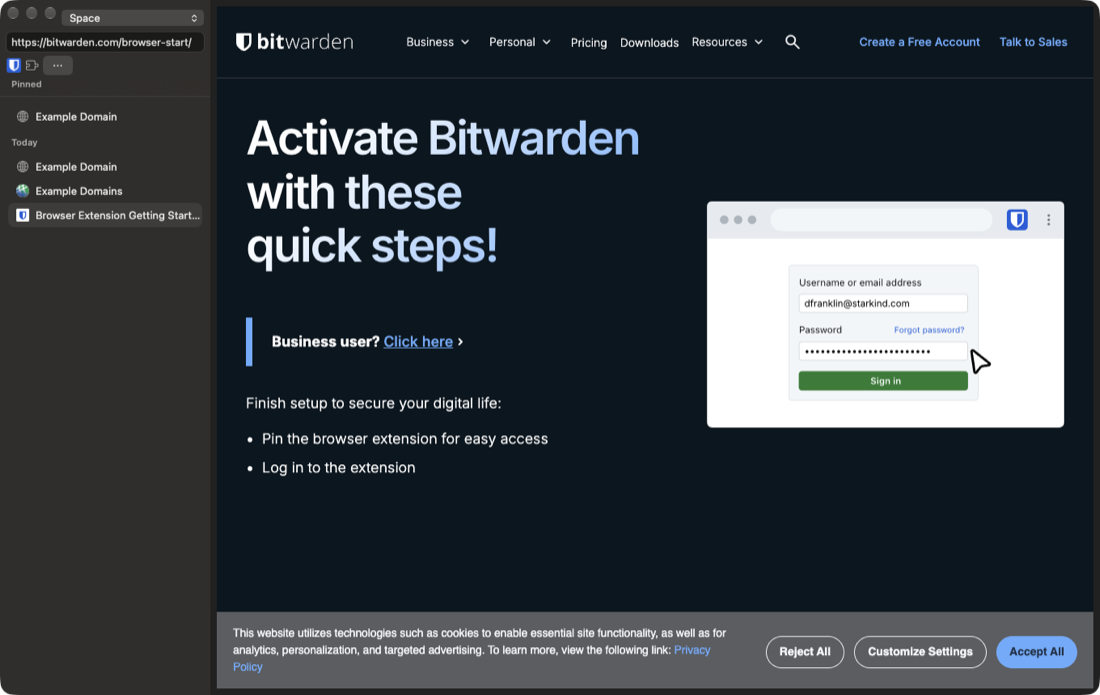
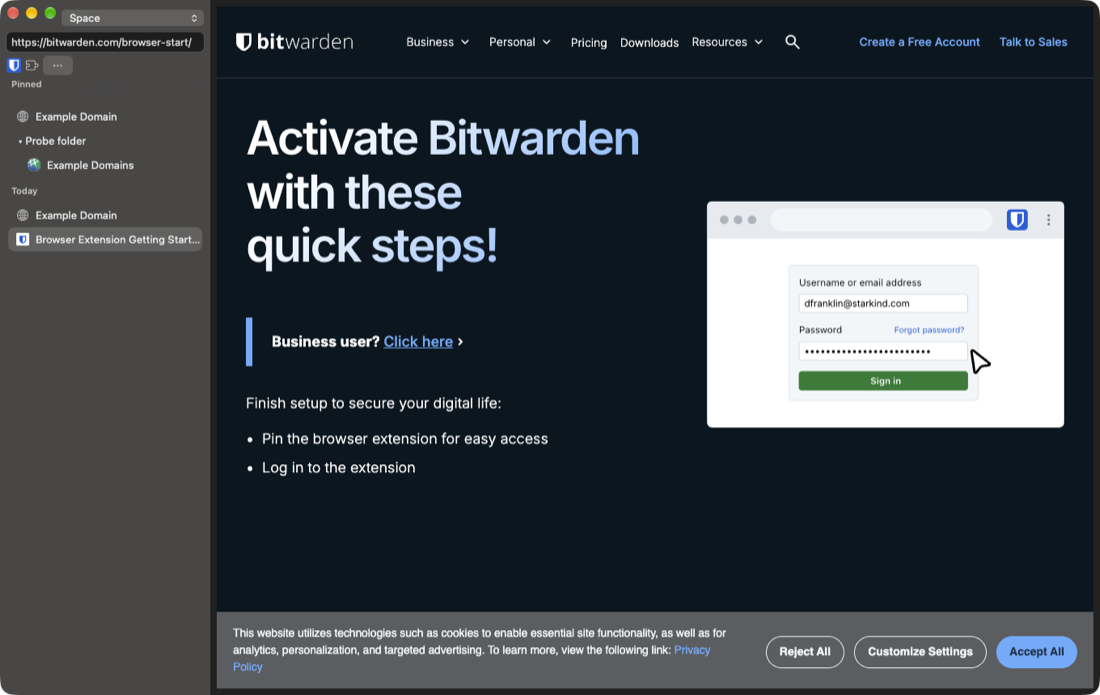
P1: folders are not tab groups (follow Arc)
Arc's ArcCore asks Swift for every chrome.tabGroups operation and shows
no folder-to-group mapping; its own tab groups are the Today-section
groups from organizing tabs (docs/re/arccore-engine.md §4.3.1).

Open v1 therefore has no tab groups. Hidden tab-strip Browsers get no
tab group model (chromium patch 0303), the same way Chrome treats app
windows, so chrome.tabs.group fails with Chrome's own "Grouping is not
supported by tabs in this window." and folder tabs keep pinned: true and
groupId -1. The tabstrip e2e suite checks this (no_tab_groups) with a new
automation "folder" command.

Changed region(s): [[0.0, 0.0, 0.2164, 1.0]]

diff --git a/App/Automation/AutomationController.swift b/App/Automation/AutomationController.swift
@@ -121,6 +121,15 @@
       case "split":
         w.addSplitView(nil)
         return w.visibleTabs.map { describe($0, in: w) }
+      case "folder":
+        // A pinned folder in the focused Space holding the given tabs.
+        guard let space = w.focusedSpace else { throw Failure(message: "no space") }
+        let ids = try (a["tabs"] as? [String] ?? []).map { try modelTab(["tab": $0], w).id }
+        guard
+          let folder = app.model.createFolder(
+            in: .spacePinned(space.id), title: a["title"] as? String ?? "Folder", withNodes: ids)
+        else { throw Failure(message: "folder not created") }
+        return folder.id.description
       case "navigate":
         try content(a, w).load(try url(a, "url"))
         return true

diff --git a/tools/e2e/engine_e2e.py b/tools/e2e/engine_e2e.py
@@ -787,6 +787,25 @@ def tabstrip_checks(app, results):
                       timeout=10)
     results["tabs_remove"] = {"ok": bool(gone)}
 
+    # Folders are not tab groups (lead decision; Arc does not map them either,
+    # docs/re/arccore-engine.md §4.3): a folder's tabs stay pinned with no
+    # group, and grouping fails with Chrome's own error.
+    folder = app.call("folder", tabs=[b], title="Probe folder")
+    def in_folder():
+        rows = {t["id"]: p for t, p in live()}
+        return rows.get(b) if b in rows else None
+    wait_until(in_folder, timeout=10)
+    time.sleep(1)
+    flags = ext_eval(pop, "chrome.tabs.query({currentWindow: true}).then(ts => ts.map(t => ({id: t.id,"
+                          " pinned: t.pinned, groupId: t.groupId})))")
+    grouped = ext_eval(pop, "chrome.tabs.group({tabIds: [%d]}).then(g => 'grouped ' + g, e => e.message)" % b_id)
+    groups = ext_eval(pop, "chrome.tabGroups.query({}).then(gs => gs.length, e => e.message)")
+    b_flags = [f for f in flags if f["id"] == b_id]
+    results["no_tab_groups"] = {
+        "ok": bool(b_flags) and b_flags[0]["pinned"] and all(f["groupId"] == -1 for f in flags)
+              and "support" in str(grouped) and groups == 0,
+        "folder": folder, "folder_tab": b_flags, "group_call": grouped, "tab_groups": groups}
+
     ev = events(pop)
     results["events_seen"] = sorted({e["type"] for e in ev})
     app.call("popup-close")

diff --git a/Engine/fork/src/open/browser/tab_strip/hidden_browser.h b/Engine/fork/src/open/browser/tab_strip/hidden_browser.h
@@ -5,6 +5,8 @@
 #ifndef OPEN_BROWSER_TAB_STRIP_HIDDEN_BROWSER_H_
 #define OPEN_BROWSER_TAB_STRIP_HIDDEN_BROWSER_H_
 
+#include "cef/libcef/browser/chrome/browser_delegate.h"
+
 class BrowserWindowInterface;
 
 namespace open_engine {
@@ -14,6 +16,14 @@ namespace open_engine {
 // that treats "no Views UI" as "unit test" (CHECK_IS_TEST) checks this first
 // (Engine/fork/patches/chromium/0302-open-hidden-browser-ui.patch).
 bool IsHiddenTabStripBrowser(const BrowserWindowInterface* browser);
+
+// False for the CEF params of a hidden tab-strip Browser: Open does not map
+// its folders to tab groups (Arc does not either; docs/re/arccore-engine.md
+// §4.3), so the Browser gets no tab group model and chrome.tabs.group fails
+// with Chrome's "does not support tab groups" error instead of making groups
+// the sidebar cannot show. Called from the Browser constructor
+// (Engine/fork/patches/chromium/0303-open-hidden-browser-no-tab-groups.patch).
+bool SupportsTabGroups(const cef::BrowserDelegate::CreateParams* cef_params);
 
 }  // namespace open_engine
 

diff --git a/Engine/fork/src/open/browser/tab_strip/open_tab_strip.cc b/Engine/fork/src/open/browser/tab_strip/open_tab_strip.cc
@@ -517,6 +517,14 @@ bool IsHiddenTabStripBrowser(const BrowserWindowInterface* browser) {
   return OpenTabStrip::FromBrowser(browser) != nullptr;
 }
 
+bool SupportsTabGroups(const cef::BrowserDelegate::CreateParams* cef_params) {
+  // CEF passes only ChromeBrowserHostImpl::DelegateCreateParams here.
+  return !cef_params ||
+         !static_cast<const ChromeBrowserHostImpl::DelegateCreateParams*>(
+              cef_params)
+              ->create_params_.open_tab_strip_id;
+}
+
 }  // namespace open_engine
 
 // static

diff --git a/docs/re/arccore-engine.md b/docs/re/arccore-engine.md
@@ -179,8 +179,22 @@ Arc does not use Chrome windows/tab strips as UI, yet `chrome.tabs` must work. T
 - [ ] Consent UI callbacks for install, uninstall, and host/permission prompts, answered asynchronously via completions.
 - [ ] A tab-model mirror: every Arc/Open tab (pinned, today, split-view member, Little Arc, Peek) needs a stable engine tab identity exposed to `chrome.tabs` (id, windowId, index, active, pinned, groupId, url/title/favicon/status, audible/muted), with create/remove/update/move/activate events. Split View is the hard case: two WebContents, one visual tab — Arc's `tabs_api.mojom.TabStripService.ReplaceTabInSplit` string suggests upstream Chromium 156 already models splits; Open must decide the mapping and document it.
 - [ ] A window-model mirror: `chrome.windows` ↔ Open windows (main, Little Arc, popup browsers via `createPopupBrowser:withDelegate:`), with focus/ bounds events.
-- [ ] Tab-group bridge both ways (extension-created groups must appear in the sidebar; sidebar groups must be visible to extensions).
+- [ ] Tab-group bridge both ways (extension-created groups must appear in the sidebar; sidebar groups must be visible to extensions). Open v1: no groups (§4.3.1).
 - [ ] Omnibox keywords (`triggerExtensionOmniboxInput`), extension commands (global shortcuts), context menus (`showExtensionContextMenu:` + `ArcMenuModel`), side-panel hosting, devtools for extension pages (background/service-worker inspection via `ArcBrowserContextDevTools`), and error surfacing (`ArcExtensionRuntimeError`).
+
+#### 4.3.1 Tab groups vs folders (2026-10-25)
+
+Question (lead): does Arc's hidden tab-strip mirror turn sidebar folders into Chromium tab groups, and how does it report pinned tabs inside folders? Answer: **no evidence that Arc maps folders to tab groups.** Arc answers `chrome.tabs.group` and `chrome.tabGroups` from Swift through a delegate bridge, and its own "tab groups" are a separate Today-section feature. Evidence (raw output in `.re/tabgroups/`):
+
+1. ArcCore asks Swift for every group operation; it does not read groups from its `TabStripModel`. Selectors in ArcCore (`strings`): `browser:createTabGroupWithSessionIds:properties:completion:`, `browser:getTabGroupWithId:completion:`, `browser:getAllTabGroupsWithCompletion:`, `browser:updateTabGroupWithId:properties:completion:`, `browser:moveTabGroupWithId:toNewIndex:completion:`, `browser:extensionGroupIdForTabWithSessionId:`; C++ names `BrowserDelegate::CreateTabGroup`, `::GetAllTabGroups`, `::UpdateTabGroup`, `::MoveTabGroup`, `::GetExtensionGroupIdForTab`; properties `TabGroupProperties {title, color (arc::bindings::TabGroupColor), collapsed}`.
+2. In the Arc binary these land on ADK's `_TtC3ADK15ChromiumBrowser` methods (shared Ghidra project, `FuncByName.java`: `browser:createTabGroupWithSessionIds:properties:completion:` @ `10052bd9c` … `browser:extensionGroupIdForTabWithSessionId:` @ `10052d170`). Decompiled, each forwards to a weak Swift `browserDelegate` protocol (witness slots `0x70` = get all groups, `0x78` = group id lookup) and returns `-1` (no group) when there is no delegate.
+3. That delegate is `ADK.ADKBrowserDelegate` (`_TtC3ADK18ADKBrowserDelegate`), a closure/action adapter whose fields include `onCreateTabGroup`, `onAddTabsToGroup`, `onRemoveTabsFromGroup`, `onUpdateTabGroup`, `onMoveTabGroup`, `onGetTabGroup`, `onGetAllTabGroups` and the stored closure `extensionGroupIdLookup` (ivar symbol; reader `FUN_1004ed7f4` returns `-1` when the closure is nil; its setter `FUN_1004ecc5c` is reached only through Swift dynamic dispatch, so the app-side handler is not statically traceable). Reply types: `ExtensionTabGroupInfo` (`groupID`, `extensionGroupID`, `title`, `color`, `collapsed`, `tabSessionIDs`), `ExtensionTabGroupResult`.
+4. Arc's own "tab groups" are Today-section groups with a header, made by "organize tabs": `SharedWindowFeature/WindowData+TabGroups.swift` with `createUnpinnedTabGroups()` (referenced from `FUN_1029f9b18`, `FUN_1029fbb48`, `AdrpDecomp.java`), "Tab group of miscellaneous tabs", "No tab groups found" / "Tells user that although they attempted to organize their tabs, no tab groups were found", `Arc.TabGroupHeaderCellView` ("Tooltip for the button to close a group of tabs in the sidebar"), "Tab Group Context Menu", "Remove tab group header", `TabGroupingWithAIError`. Folders are separate UI with their own strings: "New Folder", "New Folder from Selection", "Close This Folder", "Tooltip for the button to archive a folder", "Turn into Folder".
+5. Chromium's session files in the user's Arc profile (`User Data/Default/Sessions/Session_*`, read-only, command ids only) hold window commands only (`SetWindowType`, `SetWindowUserTitle`, `SetWindowWorkspace2`, `AddWindowExtraData`, …): no `SetTabWindow`, no `SetPinnedState`, no `SetTabGroup`/`SetTabGroupMetadata2`. Guess: Arc keeps tabs out of Chromium's session service and restores from its own JSON, so the session layer says nothing about groups either way.
+
+Guess (not proven, see 3): the bridge serves the Today tab groups of point 4, which come from Arc Max's tab organizing. Arc Max is out of v1 scope.
+
+Decision for Open v1 (lead rule: copy Arc if it groups folders, else no mapping): folders are not tab groups. Folder tabs keep their pinned state in `chrome.tabs` (`groupId` -1), and Open's hidden windows have no tab-group model, so `chrome.tabs.group` fails with Chrome's own "Grouping is not supported by tabs in this window." and `chrome.tabGroups.query` returns nothing (docs/engine-patches.md, P1).
 
 ### 4.4 CEF gap
 

diff --git a/docs/engine-patches.md b/docs/engine-patches.md
@@ -81,7 +81,7 @@ As built, close to the plan above. Differences are marked "deviation".
 | `OpenHostedPlatformDelegate` | overlay `open_hosted_platform_delegate.{h,mm}` | Chrome style platform delegate whose window handle is the `WebContents` view; the shell parents it. `WasHidden` drives `UpdateWebContentsVisibility`. |
 | CEF API | overlay `cef/include/cef_tab_strip.h`; C API and wrappers are generated by `cef/tools/version_manager.py` (CEF keeps them untracked) | `CefTabStrip`: `Create`, `GetWindowId`, `SetHostView`, `CreateTab`, `UpdateTab`, `ActivateTab`, `GetTabId`, `GetTabCount`, `GetTabAt`, `GetActiveIndex`, `GetExtensionActionBadgeText/BadgeColor/Title`, `IsExtensionActionEnabled`, `Close`. `CefTabStripHandler`: `OnBeforeTabCreated` (client for a tab Chromium creates), `OnTabCreated`, `OnTabActivateRequested`, `OnTabMoveRequested`, `OnTabPinRequested`, `OnExtensionActionUpdated`. |
 | CEF hooks | `patches/cef/0302-open-hosted-tabs.patch` (+79/−6) | `CefBrowserCreateParams::open_tab_strip_id`; platform delegate selection; per-tab client in `ChromeBrowserDelegate::SetAsDelegate`; popups of hosted tabs join the opener's strip (`CanCreateWindow`, `ChromeBrowserHostImpl::AddNewContents`); no `SelectNumberedTab` on focus for hosted tabs; `WasHidden` for hosted tabs; `BUILD.gn` adds `//open/open_libcef_sources.gni`. |
-| Chromium hooks | `patches/chromium/0301-open-headless-browser-window.patch` (+6/−4), `0302-open-hidden-browser-ui.patch` (+8/−2) | Two `CHECK(browser_view)` that CEF's own patch adds in `browser_window_features.cc` (reached by every new tab); a `CHECK_IS_TEST()` in Read Anything for windows without a side panel; no `SadTabHelper` (a Views sad tab) in hidden Browsers. `open_engine::IsHiddenTabStripBrowser()` (`hidden_browser.h`) is the predicate. |
+| Chromium hooks | `patches/chromium/0301-open-headless-browser-window.patch` (+6/−4), `0302-open-hidden-browser-ui.patch` (+8/−2), `0303-open-hidden-browser-no-tab-groups.patch` (+11/−2) | Two `CHECK(browser_view)` that CEF's own patch adds in `browser_window_features.cc` (reached by every new tab); a `CHECK_IS_TEST()` in Read Anything for windows without a side panel; no `SadTabHelper` (a Views sad tab) in hidden Browsers. `open_engine::IsHiddenTabStripBrowser()` (`hidden_browser.h`) is the predicate. Hidden Browsers get no tab group model (`open_engine::SupportsTabGroups()`), as Chrome does for app windows. |
 
 Deviations from the plan:
 
@@ -98,7 +98,6 @@ Cost (`--only measure --style chrome`, `results-measure-release-p1.json`, load a
 
 Not done in this step:
 
-- Folders → `chrome.tabGroups` (lead decision 3) needs one more decision: Chrome cannot group pinned tabs (`TabListInterface::AddTabsToGroup` unpins them), and Arc's folders live in the pinned section. Proposed: report tabs inside folders as unpinned, grouped tabs.
 - `chrome.windows.create` still makes a Chrome Views window (`OEDefaultClient` reloads its URL into an Open tab, losing identity).
 - Moving a hosted tab to another window or profile: the page stays a tab of its first window.
 
@@ -179,6 +178,6 @@ Planned in full in [plans/adblock-fork.md](plans/adblock-fork.md) (adblock-rust 
 
 1. Patch order P1 → P2 → P3 approved. Owner of P1: the engine lead (Opus), working alone in the shared Chromium tree; other engine patch series (ad block, tab sleeping) queue behind it in the same tree.
 2. `chrome.windows`: one Chrome window per Open window. Its tab strip holds every LIVE tab of that window across all Spaces (placeholders and sleeping tabs are absent until loaded); the focused tab is the active tab. Space switches do not churn the strip.
-3. Folders map to `chrome.tabGroups` (title = folder name, collapsed = folder collapsed) after core P1 works. Splits are not tab groups.
+3. ~~Folders map to `chrome.tabGroups` (title = folder name, collapsed = folder collapsed) after core P1 works.~~ Superseded (lead, 2026-10-25): follow Arc. Arc does not map folders to tab groups (docs/re/arccore-engine.md §4.3.1), so v1 has no tab groups: folder tabs keep their pinned state in `chrome.tabs` (`groupId` -1), and Open's hidden windows have no tab group model, so `chrome.tabs.group` fails with Chrome's own error and `chrome.tabGroups.query` is empty (patch `0303`, e2e `--only tabstrip` → `no_tab_groups`). Splits are not tab groups.
 4. Default profile engine data stays at `Profiles/Default/` (CEF's fixed default slot); other profiles use `Profiles/<dir>/Engine/`. docs/plans/profiles.md §5 is amended by this decision.
 5. Until P1 lands: extensions run in our own views; the Chrome-style window remains available (debug/advanced menu) for the Web Store and `chrome://extensions`.

diff --git a/docs/followups.md b/docs/followups.md
@@ -14,7 +14,6 @@ Small items found during review and verification. Each line: area — issue — 
 - Engine / shell — hosted (Chrome style) tabs bring Chrome's own context-menu items (Cast…, Open in Reading Mode, Create QR Code…) into `OEContextMenu`. Filter them in the shell or drop them in the engine (P5 trim). — engine lead, 2026-10-25
 - Engine P3 — the Web Store install prompt from a hosted tab is Chrome's Views dialog as a free-standing window (the install completes). P3 sends it to the shell. — engine lead, 2026-10-25
 - Engine P1 follow-up — `chrome.windows.create` still opens a Chrome Views window (`OEDefaultClient` reloads its URL into an Open tab, losing identity); sized `window.open` popups are tabs of the opener's window in `chrome.tabs`. Map extension popup windows to Open panels with their own hidden window. — engine lead, 2026-10-25
-- Lead decision — folders → `chrome.tabGroups`: Chrome cannot group pinned tabs, and Arc's folders live in the pinned section. Proposed: tabs inside folders are unpinned, grouped tabs in `chrome.tabs`. — engine lead, 2026-10-25
 - Engine P1 follow-up — a hosted page stays a tab of its first window; moving a tab to another window or profile needs `CefTabStrip` support (detach/attach between hidden Browsers). — engine lead, 2026-10-25
 - Shell — draw `OEExtensionAction.badgeText`/`badgeBackgroundColor` on toolbar buttons (live since P1). — engine lead, 2026-10-25
 - Engine (profiles) — CEF logs "Cannot create profile at path …/Profiles/Profile-<id>/Engine" when a non-default profile opens: every request-context cache_path must be a child of `root_cache_path`. Set `root_cache_path` = `<data root>/Profiles`, global `cache_path` = `Profiles/Default` (lead decision 4), other profiles `Profiles/<dir>/Engine`; verify cookie persistence across relaunch for a second profile. Owner: engine lead. — app-shell Step B report, 2026-10-25. Root cause (engine lead, 2026-10-25): with the Chrome bootstrap, CEF loads a disk profile only if its folder is a direct child of `root_cache_path` (`cef/libcef/browser/chrome/chrome_browser_context.cc`, `InitializeAsync`: `cache_path_.DirName() == user_data_dir`); `Profiles/<dir>/Engine` is a grandchild, so each non-default profile silently becomes an in-memory (off-the-record) profile and nothing persists. Fix: use `Profiles/<dir>/` itself as the engine folder (as the default profile already does, with `State/` beside Chrome's files), or patch CEF to accept deeper paths. Needs a data-layout decision (docs/plans/profiles.md §5).

diff --git a/docs/engine-fork.md b/docs/engine-fork.md
@@ -274,6 +274,7 @@ The app now builds against the fork by default (`tools/fetch-cef.sh`,
 |---|---|---|---|
 | chromium | `0301-open-headless-browser-window.patch` | +6/−4 | `chrome/browser/ui/browser_window/internal/browser_window_features.cc` |
 | chromium | `0302-open-hidden-browser-ui.patch` | +8/−2 | `read_anything_side_panel_controller.cc`, `tabs/tab_features.cc` |
+| chromium | `0303-open-hidden-browser-no-tab-groups.patch` | +11/−2 | `chrome/browser/ui/browser.cc` |
 | cef | `0302-open-hosted-tabs.patch` | +79/−6 | `BUILD.gn`, `browser_host_base.h`, `browser_info_manager.cc`, `browser_platform_delegate_create.cc`, `chrome/chrome_browser_delegate.cc`, `chrome/chrome_browser_host_impl.cc` |
 
 Overlay: `open/browser/tab_strip/*` and `open/open_libcef_sources.gni`
